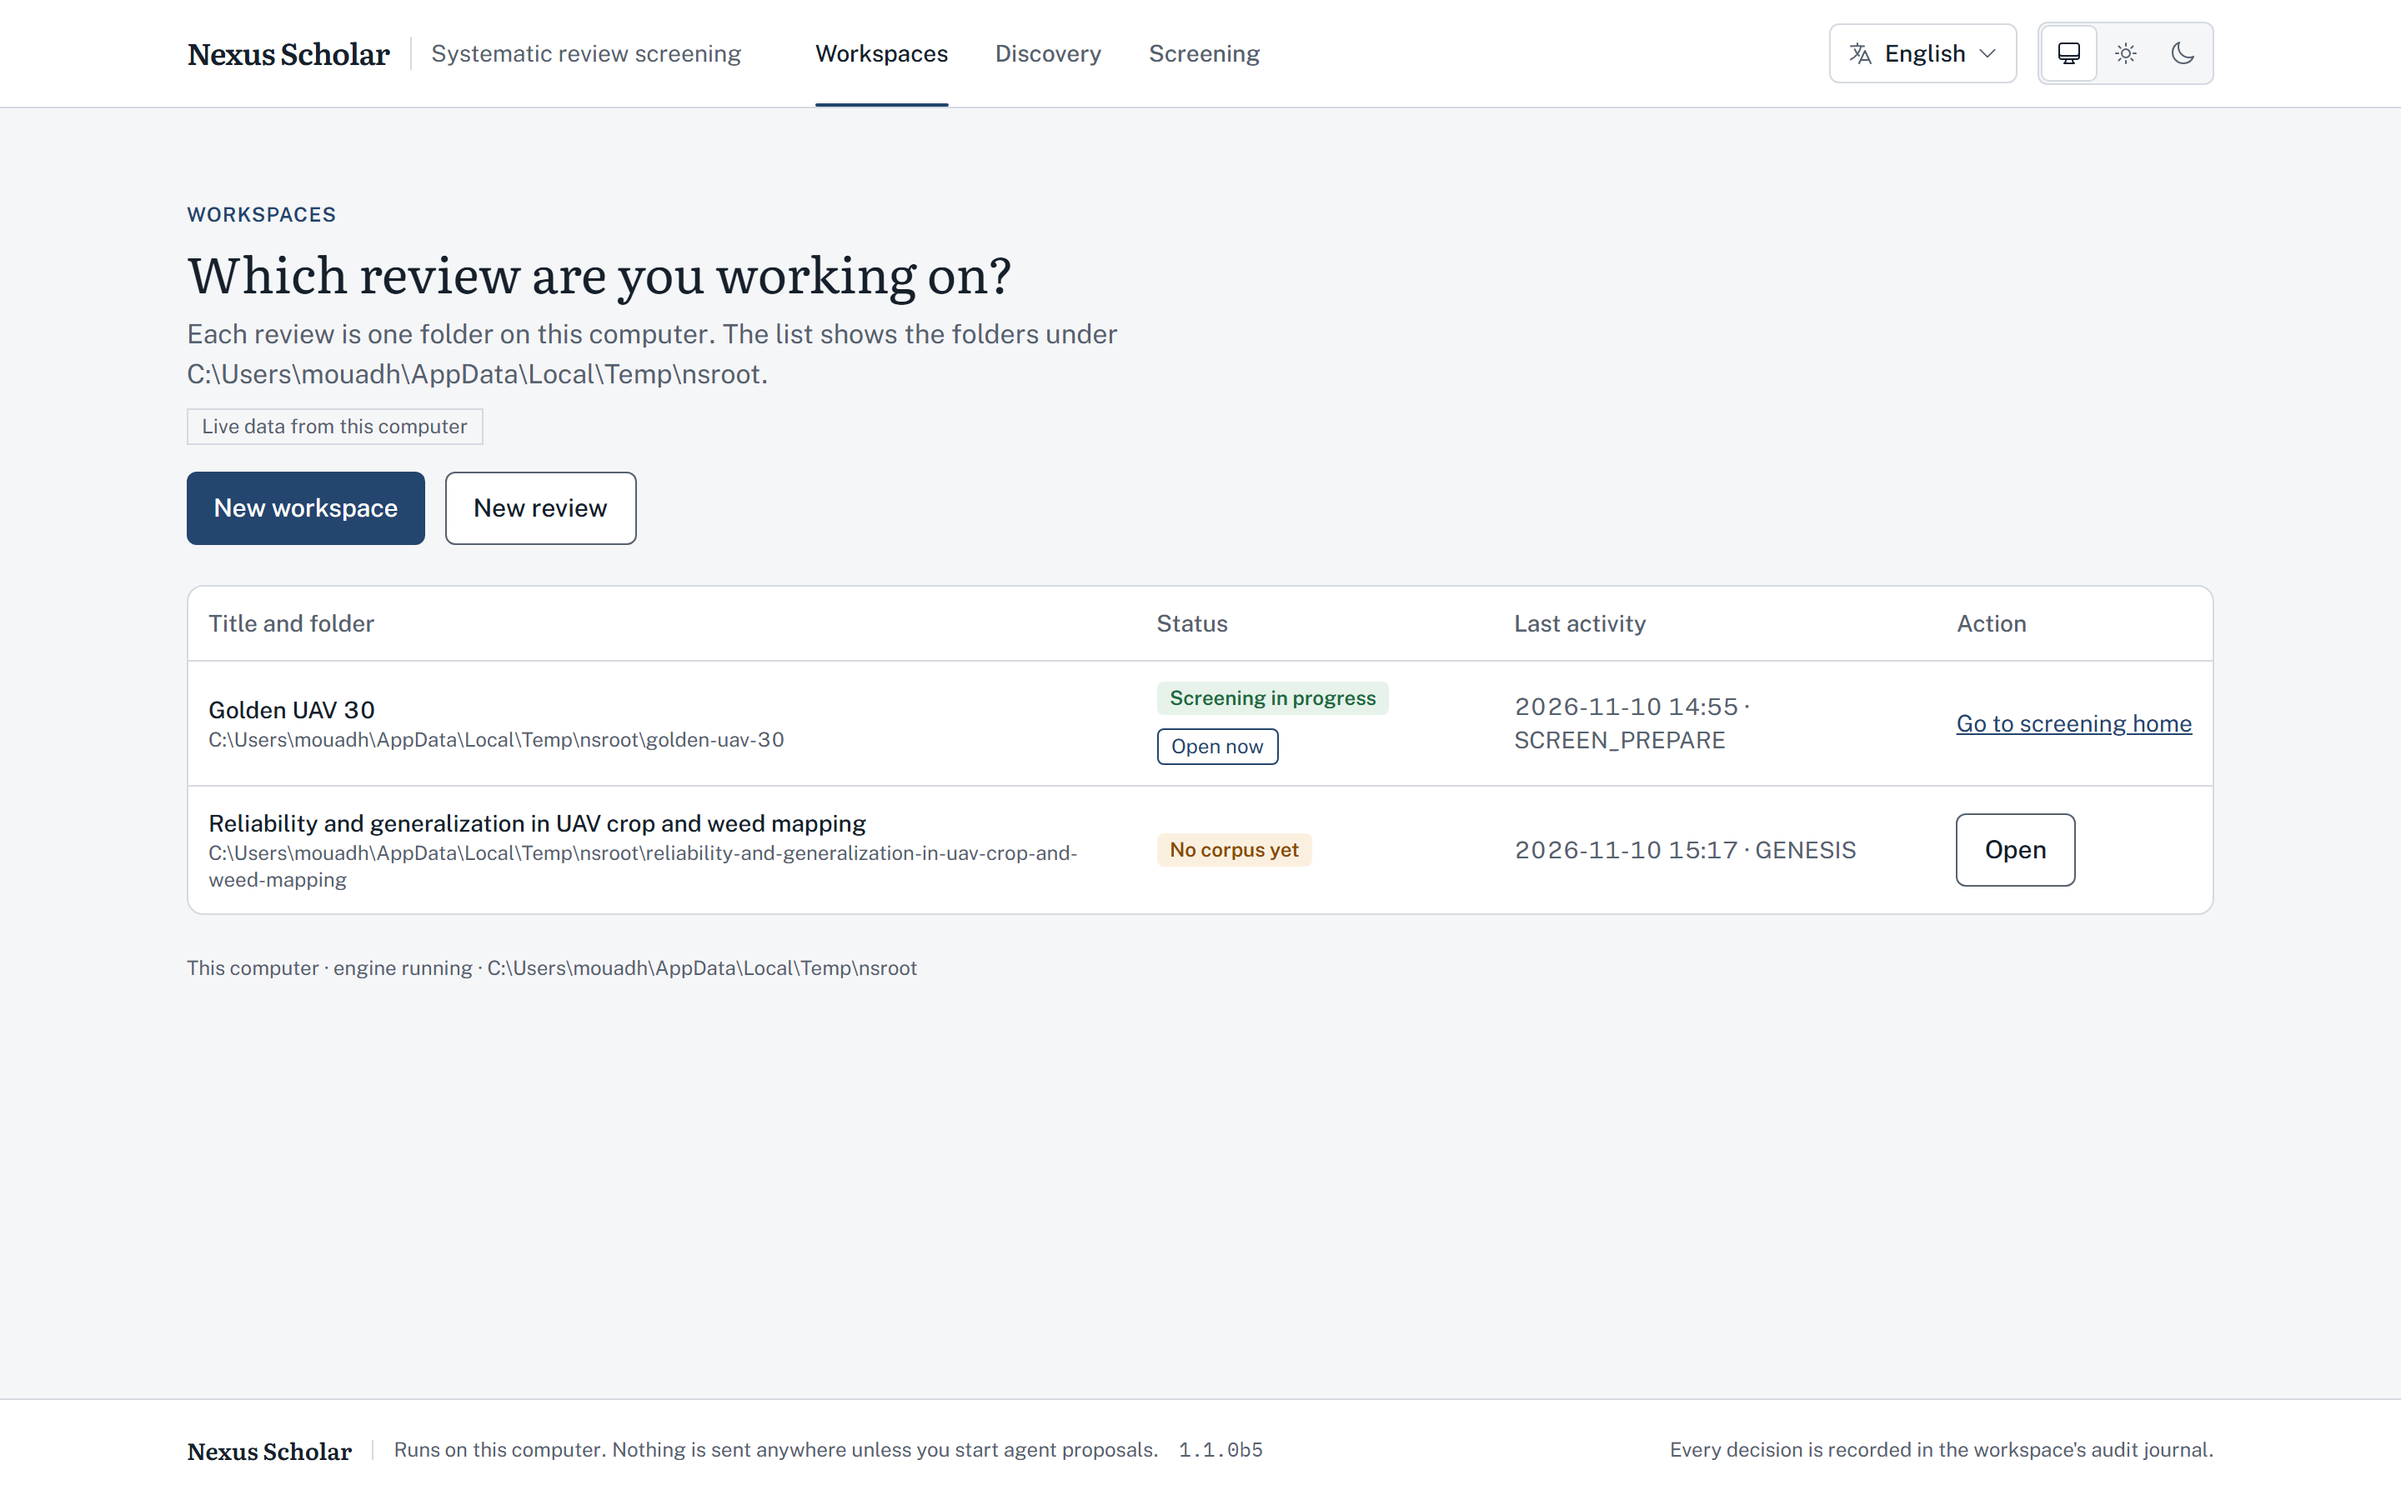
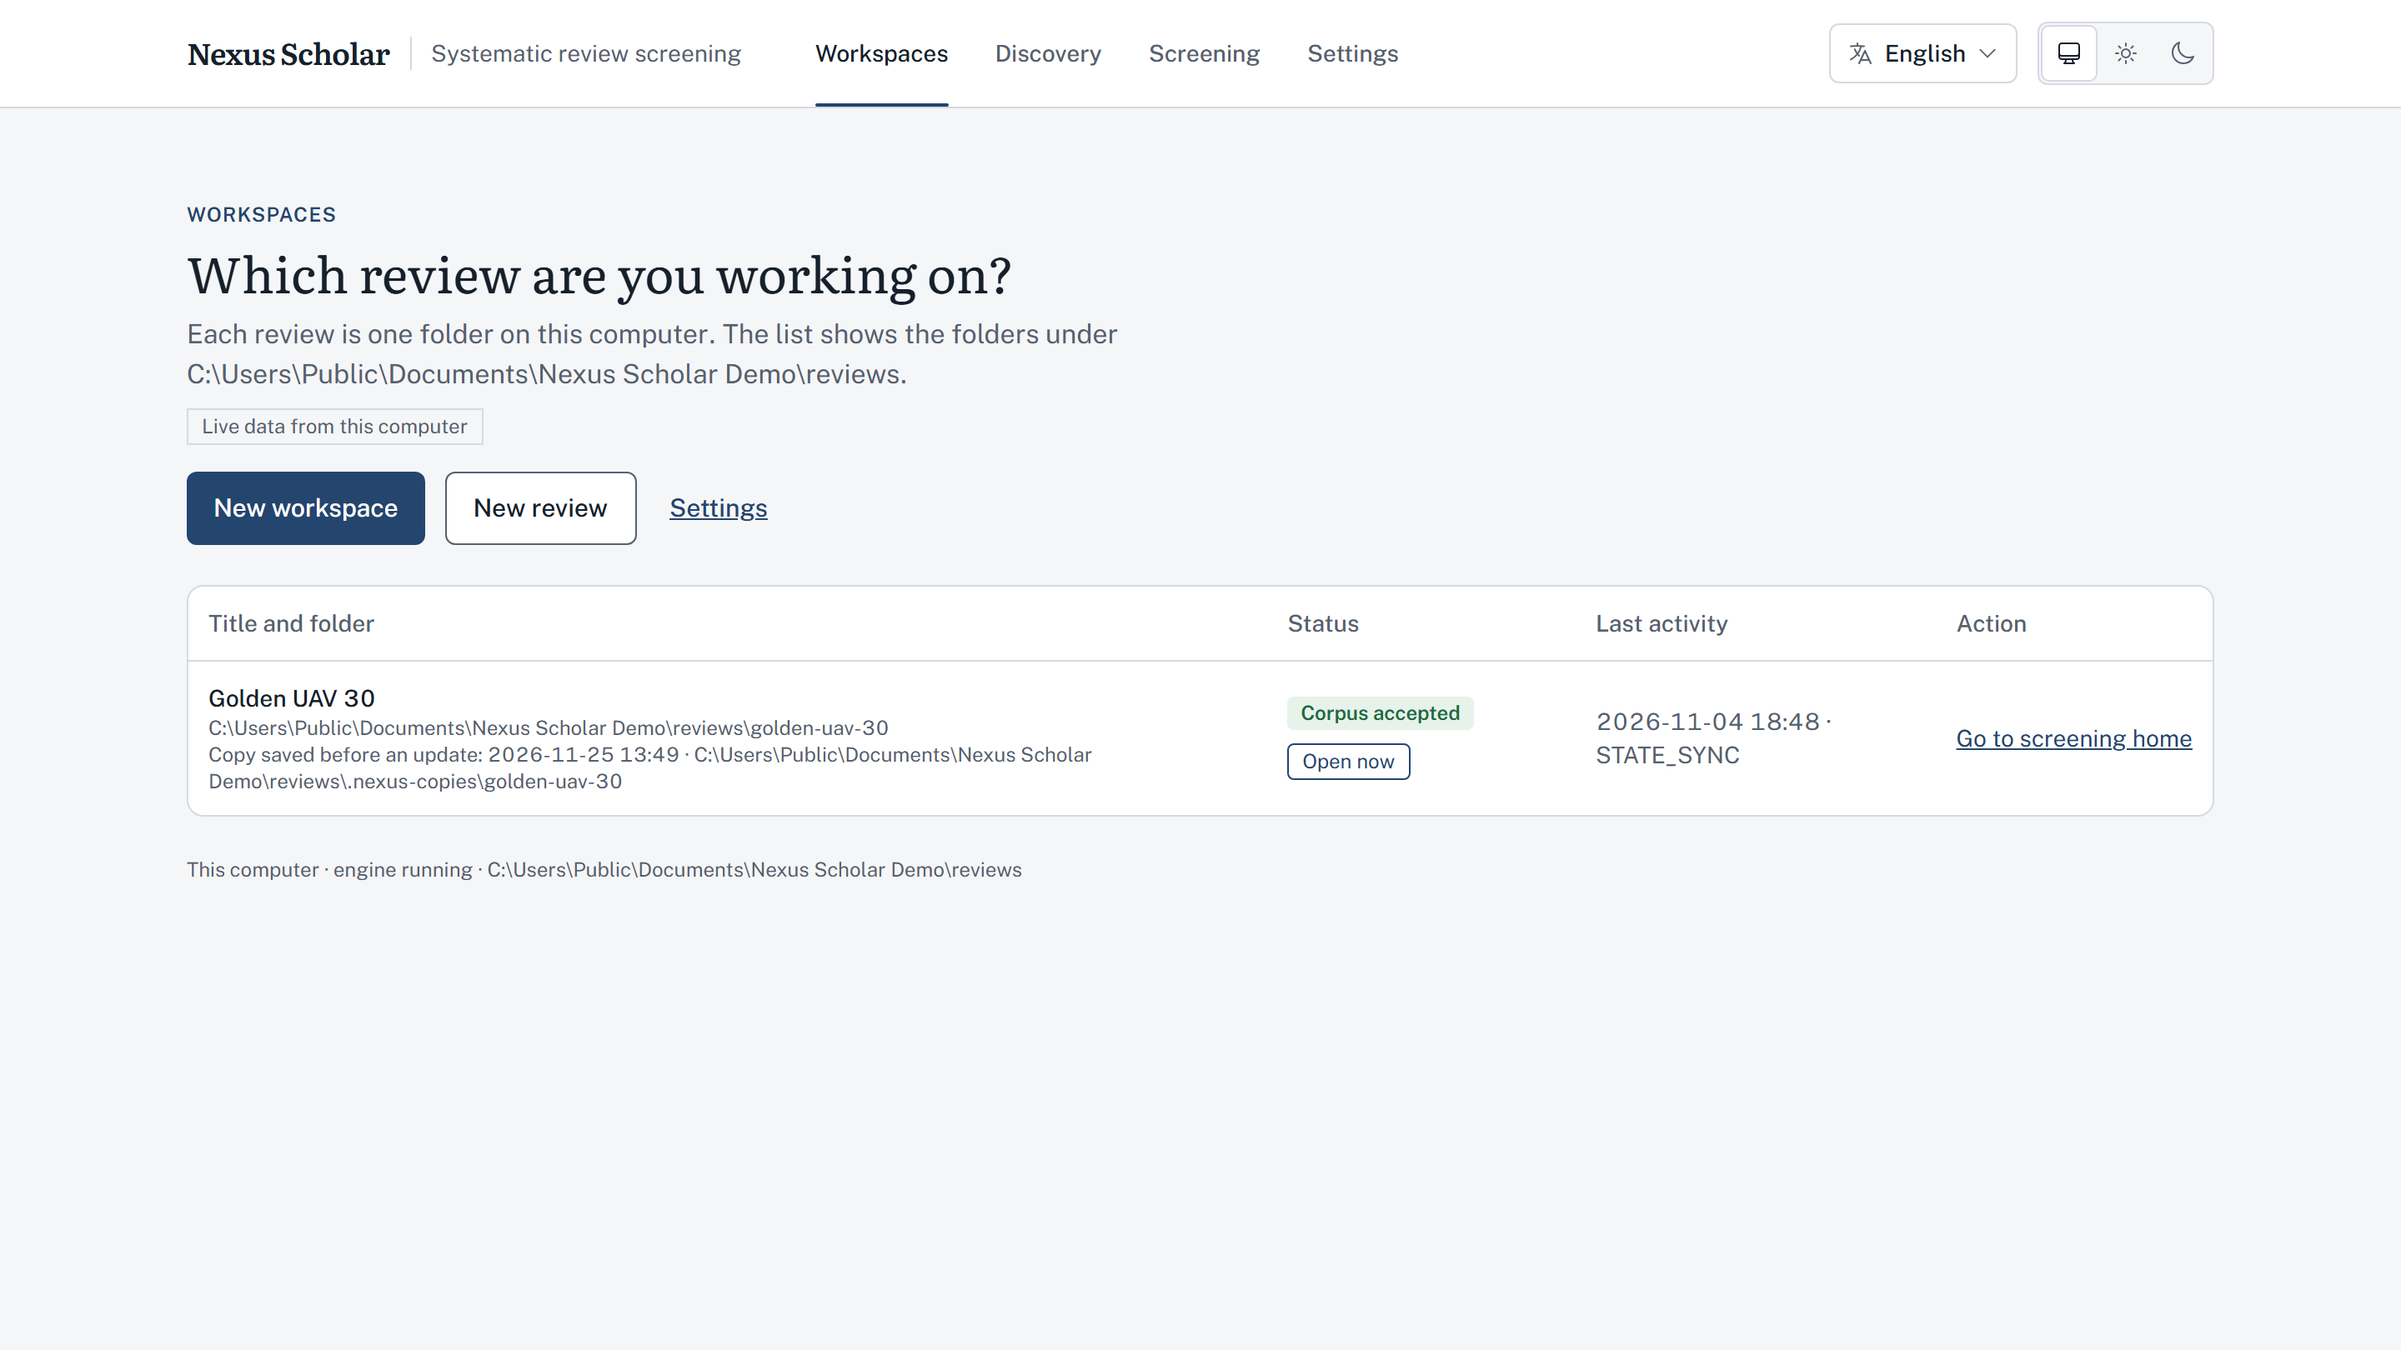
Workspaces screenshot retaken from folders with no account name
The real app on a copy of the 30-record test workspace, cropped to 1440x810 at 2x so the build label in the app's footer is not in it; the alt text and caption say what it now shows. The README's screenshot rule records both.

diff --git a/README.md b/README.md
@@ -23,7 +23,7 @@ npm run preview    # serves dist/ at http://localhost:4321/nexus-scholar-site/
 | The landing page | `src/pages/index.astro` (content and the live triage fragment) and `src/styles/landing.css` |
 | A docs page | The Markdown file under `src/content/docs/docs/`; the sidebar order is in `astro.config.mjs` |
 | A release note | Add `src/content/docs/docs/releases/<version>.md` and its sidebar entry in `astro.config.mjs` |
-| A screenshot | Replace the PNG under `src/assets/screens/` (1440×900 at 2×, light theme, English) and check the `alt` text where it is used |
+| A screenshot | Replace the PNG under `src/assets/screens/` (1440×900 at 2×, light theme, English) and check the `alt` text where it is used. Take it from folders whose path holds no account name. The Workspaces picture is 1440×810 at 2×, because the app's footer carried a build label |
 | The docs theme | `src/styles/docs.css` (the brand tokens mapped onto Starlight's variables) |
 
 The facts on the site come from the product repository's docs (`README.md`, `docs/getting-started.md`, `docs/nexus_scholar_user_guide.md`, `docs/data-flow.md`, `docs/beta/README.md`, `docs/releases/`, `docs/architecture/agent-system.md` and `agent_autonomy_ladder.md`). When those change, change the matching page here. The site claims only what the tagged release and the release notes say: a feature on `main` is marked as coming with the next beta until it is tagged.
